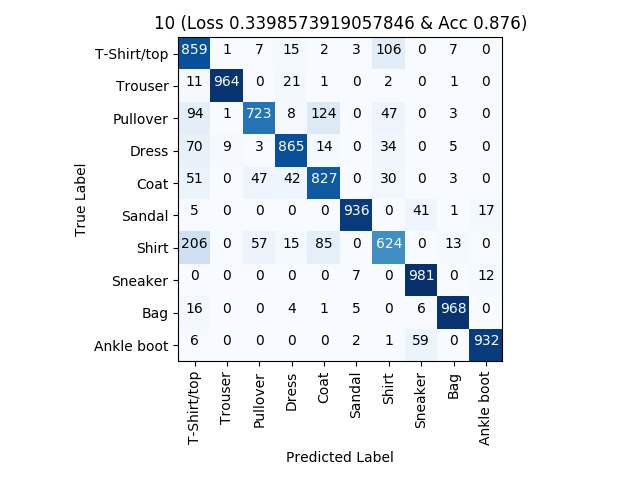
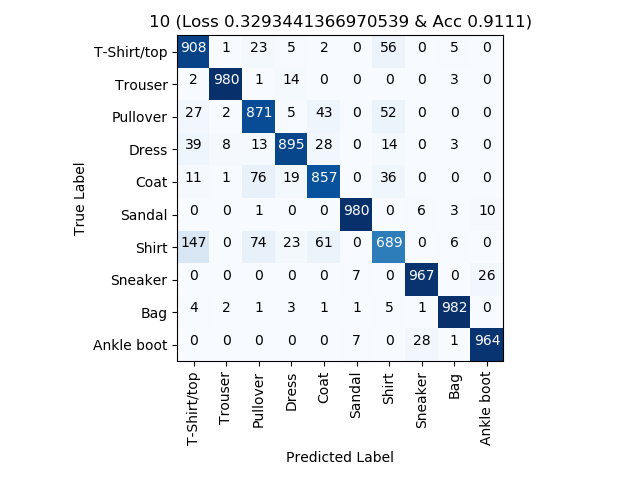
Update epoch run settings

diff --git a/loader.py b/loader.py
@@ -84,22 +84,30 @@ def main(args):
 
     # Creates range to loop filter between
     change = 'epoch'
-    range = [1, 2, 3, 4, 5, 6, 8, 10, 12, 16, 20, 24]
+    #range = [1, 2, 3, 4, 6, 8, 10, 12, 16, 20, 24, 28, 32]
+    range = [1, 2, 4, 8, 10, 12, 16, 20, 24, 32]
     history_dict = {x: {'loss': 0.0, 'acc': 0.0} for x in range}
 
     # Runs Model
     for new in range:
-        print('Creating Model with the {} {}'.format(new, change))
-        model_params = params.standard()
+        history_dict[new] = {'loss': [], 'acc': []}
+        for loop in [1, 2, 3]:
+            print('Creating Model with the {} {}'.format(new, change))
+            model_params = params.standard()
+            model_params['epoch'] = new
     
-        #model = models.build_theano_model(model_params, x_train.shape)
-        model = models.build_double_model(model_params, x_train.shape)
-        y_pred, metrics = models.fit_model(model, model_params, 
-                                           x_train, y_train, x_test, y_test)
+            #model = models.build_theano_model(model_params, x_train.shape)
+            model = models.build_double_model(model_params, x_train.shape)
+            y_pred, metrics = models.fit_model(model, model_params, 
+                                               x_train, y_train, x_test, y_test)
 
-        # Adds Data to Trends
-        history_dict[new]['loss'] = metrics['loss']
-        history_dict[new]['acc'] = metrics['acc']
+            # Adds Data to Trends
+            history_dict[new]['loss'].append(metrics['loss'])
+            history_dict[new]['acc'].append(metrics['acc'])
+
+        # Calculates Average
+        history_dict[new]['loss'] = np.mean(history_dict[new]['loss'])
+        history_dict[new]['acc'] = np.mean(history_dict[new]['acc'])
 
         # Plots Confusion Matrix
         classes = {0: 'T-Shirt/top',
